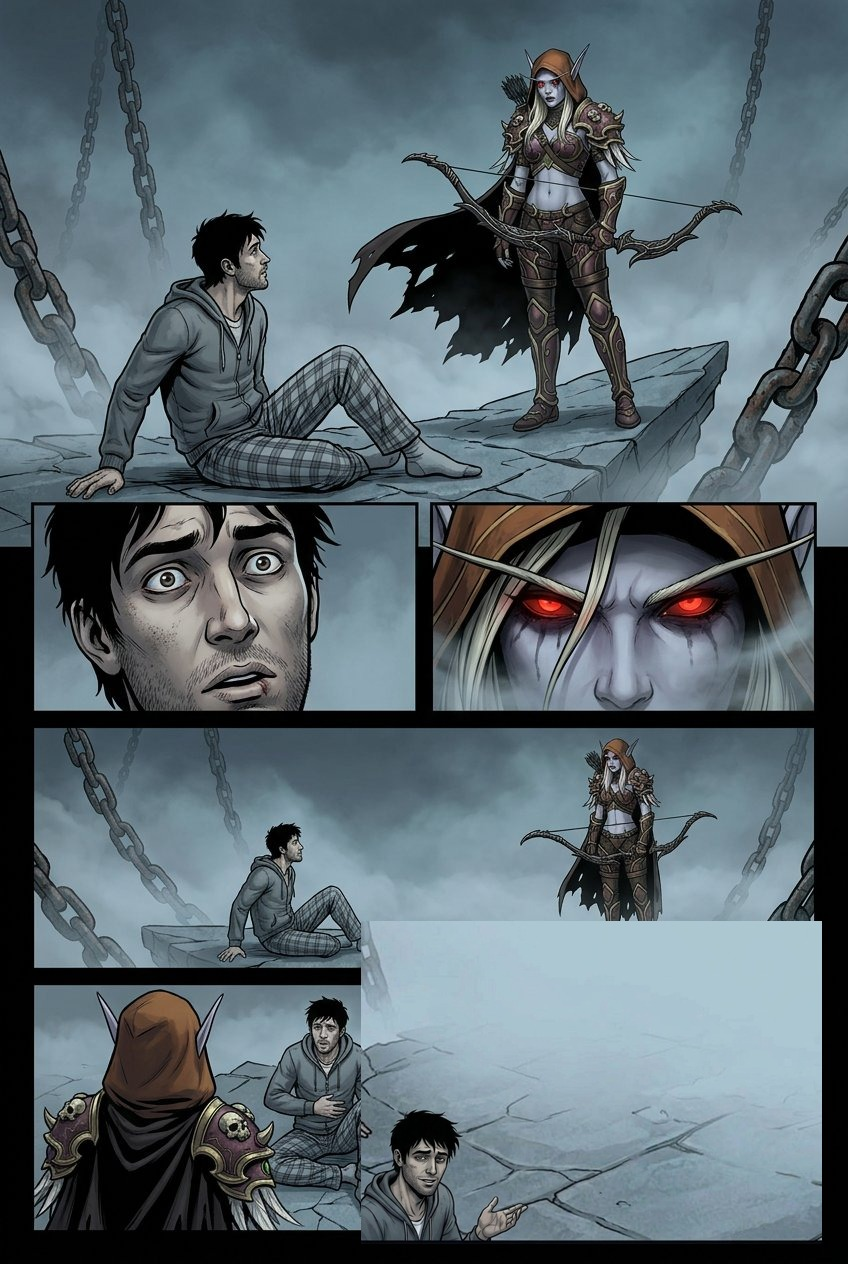
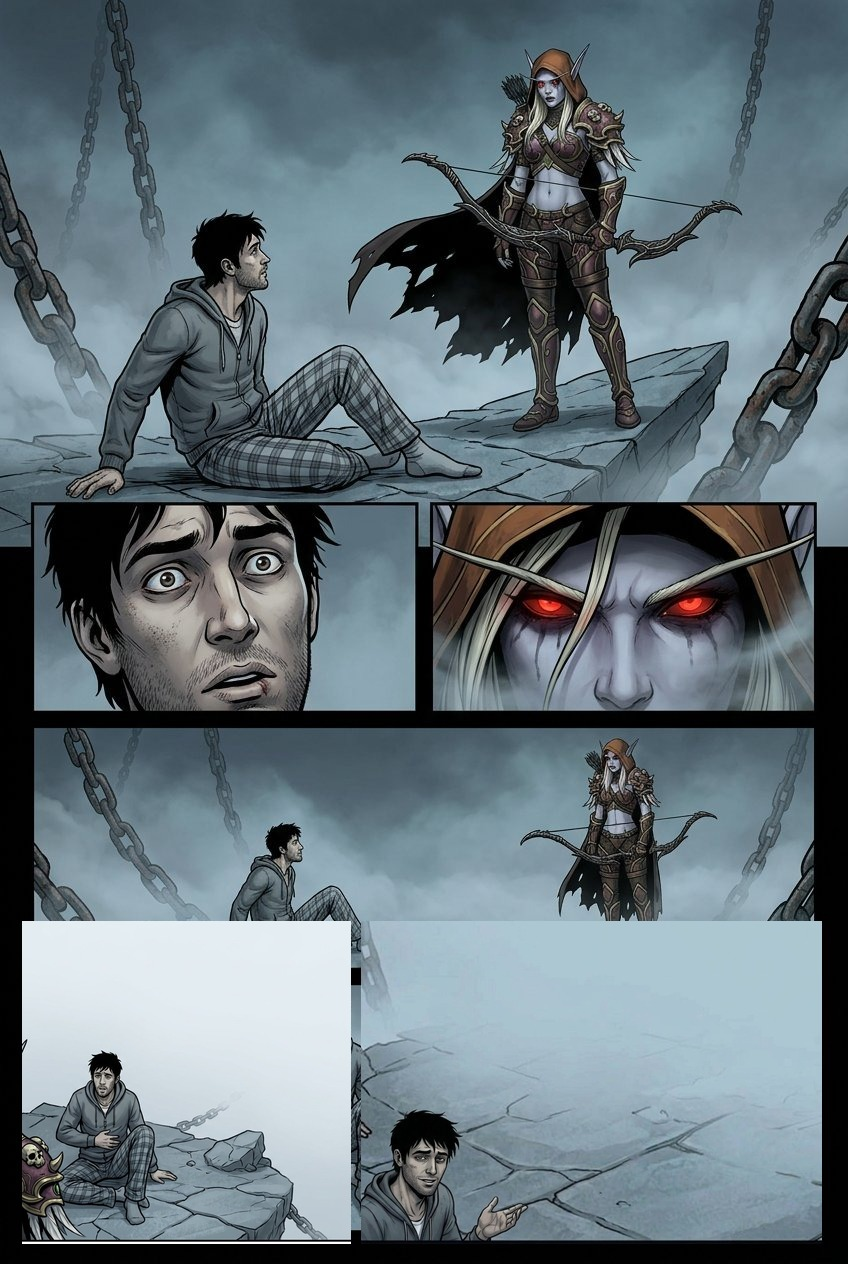
v21 20260911-21: editor de balões + capa da Sylvanas corrigida + diálogo da P4 em ordem
- EDITOR: botão '✎ Editar balões' no leitor — arrastar para mover,
  alças laterais para redimensionar (largura) e de canto (largura+altura);
  caudas redesenhadas em tempo real; ajustes salvos no navegador
  (localStorage) e botão para exportar/copiar o JSON e restaurar a página
- CAPA: P10-q4 e P7-q4 recoloridas para o marrom-rust do capuz (igual à
  página 4 e à ficha); P4-q4 regenerado com céu para os balões
- P4: sequência de diálogo restaurada à ordem do livro (na v18 duas falas
  tinham ido para o quadro de abertura e a narra final para o meio)
- Validador: 94 balões, 0 violações, 0 fora

Changed region(s): [[0.0, 0.7097, 0.4292, 0.9873]]

diff --git a/livro continua/site/hq/leitor.js b/livro continua/site/hq/leitor.js
@@ -6,7 +6,7 @@
    Rabichos são desenhados sobre os balões REAIS medidos no DOM.
    ============================================================ */
 const PW = 1280, PH = 1920;
-const VER = "20260911-20";
+const VER = "20260911-21";
 const NS = "http://www.w3.org/2000/svg";
 const COM_RABICHO = ["fala","grito","rouca","sussurro"];
 
@@ -165,12 +165,137 @@ function mostrar(i){
   $("#ant").style.visibility  = atual === 0 ? "hidden" : "visible";
 }
 
+
+/* ---------------- editor de balões (mover / redimensionar) ---------------- */
+const EDIT = { on:false, alvo:null, modo:null, sx:0, sy:0, x0:0, y0:0, w0:0, h0:0 };
+const LS_KEY = "hq_baloes_v1";
+
+function carregarOverrides(){
+  try{
+    const dados = JSON.parse(localStorage.getItem(LS_KEY)||"{}");
+    document.querySelectorAll(".pagina").forEach(pag=>{
+      const idx = pag.dataset.idx;
+      (dados[idx]||[]).forEach(o=>{
+        const b = [...pag.querySelectorAll(".balao")].find(x=>
+          x.dataset.tipo!=="sfx" && x.querySelector(".tx") &&
+          x.querySelector(".tx").textContent.trim()===o.tx);
+        if(!b) return;
+        b.style.left=o.x+"px"; b.style.top=o.y+"px";
+        b.style.width=o.w+"px";
+        if(o.h) b.style.height=o.h+"px"; else b.style.height="";
+      });
+    });
+  }catch(e){ console.warn("HQ: overrides de balões ignorados", e); }
+}
+function salvarOverrides(){
+  try{
+    const dados = {};
+    document.querySelectorAll(".pagina").forEach(pag=>{
+      const idx = pag.dataset.idx; const lista=[];
+      pag.querySelectorAll(".balao").forEach(b=>{
+        if(b.dataset.tipo==="sfx"||!b.dataset.ed) return;
+        lista.push({ tx:b.querySelector(".tx").textContent.trim(),
+          x:Math.round(parseFloat(b.style.left)||0),
+          y:Math.round(parseFloat(b.style.top)||0),
+          w:Math.round(parseFloat(b.style.width)||0),
+          h:b.style.height?Math.round(parseFloat(b.style.height)):null });
+      });
+      if(lista.length) dados[idx]=lista;
+    });
+    localStorage.setItem(LS_KEY, JSON.stringify(dados));
+  }catch(e){ console.warn("HQ: falha ao salvar overrides", e); }
+}
+function prepararEdicao(b){
+  if(b.dataset.ed) return;
+  b.dataset.ed="1";
+  const rx=document.createElement("div");  rx.className="rng rng-x";  rx.title="Largura";
+  const rxy=document.createElement("div"); rxy.className="rng rng-xy"; rxy.title="Altura e largura";
+  b.appendChild(rx); b.appendChild(rxy);
+}
+function iniciarArrasto(b, modo, ev){
+  EDIT.alvo=b; EDIT.modo=modo;
+  EDIT.sx=ev.clientX; EDIT.sy=ev.clientY;
+  EDIT.x0=parseFloat(b.style.left)||b.offsetLeft;
+  EDIT.y0=parseFloat(b.style.top)||b.offsetTop;
+  EDIT.w0=parseFloat(b.style.width)||b.offsetWidth;
+  EDIT.h0=b.offsetHeight;
+  b.setPointerCapture && b.setPointerCapture(ev.pointerId);
+  ev.preventDefault(); ev.stopPropagation();
+}
+function ativarEditor(){
+  document.querySelectorAll(".pagina .balao").forEach(b=>{
+    if(b.dataset.tipo==="sfx") return;
+    prepararEdicao(b);
+    if(b.dataset.evt) return;
+    b.dataset.evt="1";
+    b.addEventListener("pointerdown", ev=>{
+      if(!EDIT.on) return;
+      const modo = ev.target.classList.contains("rng-xy") ? "xy"
+                 : ev.target.classList.contains("rng-x") ? "x" : "mover";
+      iniciarArrasto(b, modo, ev);
+    });
+    b.addEventListener("pointermove", ev=>{
+      if(!EDIT.on || EDIT.alvo!==b) return;
+      const dx=(ev.clientX-EDIT.sx)/escala, dy=(ev.clientY-EDIT.sy)/escala;
+      if(EDIT.modo==="mover"){
+        b.style.left = Math.max(2, Math.min(PW-EDIT.w0-2, EDIT.x0+dx))+"px";
+        b.style.top  = Math.max(2, Math.min(PH-EDIT.h0-2, EDIT.y0+dy))+"px";
+      }else{
+        const w = Math.max(110, Math.min(PW-10, EDIT.w0+dx));
+        b.style.width = w+"px";
+        if(EDIT.modo==="xy"){
+          const h = Math.max(40, EDIT.h0+dy);
+          b.style.height = h+"px";
+        }
+      }
+      clearTimeout(b._t); b._t=setTimeout(()=>{ medirPagina(b.closest(".pagina")); }, 120);
+    });
+    b.addEventListener("pointerup", ev=>{
+      if(EDIT.alvo===b){ EDIT.alvo=null; medirPagina(b.closest(".pagina")); salvarOverrides(); }
+    });
+    b.addEventListener("pointercancel", ()=>{ if(EDIT.alvo===b){ EDIT.alvo=null; medirPagina(b.closest(".pagina")); } });
+  });
+}
+function construirBarraEdit(){
+  if(document.getElementById("barra-edit")) return;
+  const bar=document.createElement("div"); bar.id="barra-edit";
+  bar.innerHTML = `<button id="ed-toggle" type="button">✎ Editar balões</button>
+    <button id="ed-export" type="button" style="display:none">⤓ Exportar JSON</button>
+    <button id="ed-reset" type="button" style="display:none">↺ Restaurar página</button>`;
+  document.body.appendChild(bar);
+  $("#ed-toggle").addEventListener("click", ()=>{
+    EDIT.on=!EDIT.on;
+    document.body.classList.toggle("editando", EDIT.on);
+    $("#ed-toggle").textContent = EDIT.on ? "✓ Concluir" : "✎ Editar balões";
+    $("#ed-export").style.display = EDIT.on?"":"none";
+    $("#ed-reset").style.display  = EDIT.on?"":"none";
+    if(EDIT.on) ativarEditor();
+    else medirTodos();
+  });
+  $("#ed-export").addEventListener("click", ()=>{
+    const dados = localStorage.getItem(LS_KEY)||"{}";
+    console.log("=== BALÕES EDITADOS (cole de volta com localStorage.setItem('hq_baloes_v1', ...)) ===");
+    console.log(dados);
+    try{ navigator.clipboard.writeText(dados); $("#ed-export").textContent="✓ Copiado!"; 
+      setTimeout(()=>$("#ed-export").textContent="⤓ Exportar JSON",1500); }catch(e){}
+  });
+  $("#ed-reset").addEventListener("click", ()=>{
+    try{
+      const dados = JSON.parse(localStorage.getItem(LS_KEY)||"{}");
+      delete dados[String(atual)];
+      localStorage.setItem(LS_KEY, JSON.stringify(dados));
+    }catch(e){}
+    location.reload();
+  });
+}
+
 /* ---------------- bootstrap: fontes → layout → páginas ---------------- */
 function boot(){
   if(bootFeito) return;
   const itensPorPagina = LayoutHQ.computarLayout(PAGINAS, LayoutHQ.criarMedidorCanvas());
   for(let i=0;i<PAGINAS.length;i++) construirPagina(i, itensPorPagina[i]);
   bootFeito = true;                     // só marca sucesso após construir
+  construirBarraEdit(); carregarOverrides();
   escalar();
   requestAnimationFrame(medirTodos);
   if(document.fonts && document.fonts.ready)

diff --git a/livro continua/site/hq/data.js b/livro continua/site/hq/data.js
@@ -72,8 +72,8 @@ const PAGINAS = [
    {r:[30,660,500,270], rostos:[[40,665,450,260]], zonas:[[30,660,500,270]]},                                                // 1 close Nathan
    {r:[545,660,700,270], rostos:[[550,665,690,260]], zonas:[[545,660,700,270]]},                                              // 2 olhos dela
    {r:[30,950,1215,440], rostos:[[352,1032,56,64],[686,1150,50,58]], zonas:[[320,1098,150,270],[628,1148,198,290]]}, // 3 dois no quadro
-   {r:[30,1400,500,490], rostos:[[342,1440,54,60]], zonas:[[18,1400,288,490],[300,1502,145,318]]},                   // 4 OTS ombro dela
-   {r:[545,1400,700,490], rostos:[[615,1650,120,140]], zonas:[[585,1650,240,240],[985,1400,260,490]]}                 // 5 close aceno
+   {r:[30,1400,500,490], rostos:[[122,1595,58,55]], zonas:[[85,1640,185,205],[240,1690,190,70],[30,1755,470,135],[30,1700,80,185]]},                   // 4 OTS ombro dela
+   {r:[545,1400,700,490], rostos:[[615,1650,120,140]], zonas:[[585,1650,240,240]]}                 // 5 close aceno
   ],
   elementos:[
    {t:"fala", p:0, de:"sylvanas", ancora:[655, 95], texto:"Você sabe meu nome."},
@@ -81,12 +81,12 @@ const PAGINAS = [
    {t:"narra", p:3, texto:"A garganta fechou. Não de medo — ou não só. Aquilo era um curto-circuito entre o que é real e o que é história."},
    {t:"fala", p:3, de:"nathan", ancora:[378, 1085], texto:"Sei."},
    {t:"fala", p:3, de:"sylvanas", ancora:[708, 1170], texto:"Diga como."},
-   {t:"fala", p:3, de:"nathan", ancora:[210, 1000], texto:"Você não vai acreditar."},
-   {t:"fala", p:0, de:"sylvanas", ancora:[655, 95], texto:"Isso é irrelevante. Diga mesmo assim."},
-   {t:"fala", p:0, de:"nathan", ancora:[100, 120], tamanho:20, texto:"Eu dormi na minha casa. No meu mundo. Acordei aqui. Sem transição, sem portal, sem nada."},
-   {t:"fala", p:5, de:"nathan", ancora:[675, 1720], texto:"Acordei de pijama numa pedra... e a primeira coisa que apareceu tentou me abrir ao meio."},
-   {t:"fala", p:5, de:"nathan", ancora:[675, 1720], texto:"Obrigado, aliás. Por isso."},
-   {t:"narra", p:3, texto:"Ela não reagiu ao agradecimento. Nem para aceitar, nem para desprezar."}
+   {t:"fala", p:3, de:"nathan", ancora:[378, 1085], texto:"Você não vai acreditar."},
+   {t:"fala", p:3, de:"sylvanas", ancora:[708, 1170], texto:"Isso é irrelevante. Diga mesmo assim."},
+   {t:"fala", p:4, de:"nathan", ancora:[150, 1615], tamanho:20, texto:"Eu dormi na minha casa. No meu mundo. Acordei aqui. Sem transição, sem portal, sem nada."},
+   {t:"fala", p:5, de:"nathan", ancora:[675, 1655], xpref:"esq", texto:"Acordei de pijama numa pedra... e a primeira coisa que apareceu tentou me abrir ao meio."},
+   {t:"fala", p:5, de:"nathan", ancora:[675, 1655], xpref:"esq", texto:"Obrigado, aliás. Por isso."},
+   {t:"narra", p:5, texto:"Ela não reagiu ao agradecimento. Nem para aceitar, nem para desprezar."}
   ]},
 /* ==================== PÁGINA 5 — O jogo (arte real) ==================== */
 { img:"img/page05.jpg",
@@ -146,7 +146,7 @@ const PAGINAS = [
    {r:[30,620,380,500], rostos:[[172,788,88,84]], zonas:[[85,745,285,155],[30,862,380,58]]},
    {r:[430,620,390,500], rostos:[[578,986,108,102]], zonas:[[515,1040,315,80]]},
    {r:[840,620,405,500], rostos:[[845,843,72,85]], zonas:[[840,925,180,190]]},
-   {r:[30,1140,590,750], rostos:[[75,1228,105,120],[318,1545,58,70]], zonas:[[60,1330,180,400],[80,1540,440,340]]},
+   {r:[30,1140,590,750], rostos:[[214,1514,132,108]], zonas:[[115,1590,385,300]]},
    {r:[650,1140,595,750], rostos:[[688,1682,105,115],[1075,1672,90,105]], zonas:[[665,1780,220,105],[1030,1770,215,115]]}
  ],
  elementos:[
@@ -214,7 +214,7 @@ const PAGINAS = [
    {r:[30,580,590,370], rostos:[[30,580,590,370]]},
    {r:[650,580,600,370], rostos:[[790,628,112,108]], zonas:[[690,760,300,110]]},
    {r:[30,970,590,330], rostos:[[30,970,590,330]]},
-   {r:[650,970,600,330], rostos:[[798,1000,64,58]], zonas:[[690,1040,270,240]]},
+   {r:[650,970,600,330], rostos:[[1022,1000,56,60]], zonas:[[655,1145,220,185],[845,1105,355,195],[975,975,130,130]]},
    {r:[30,1320,1215,570], rostos:[[300,1518,68,52],[618,1382,58,58]], zonas:[[240,1565,430,295],[555,1430,265,340],[61,1490,175,400]]}
  ],
  elementos:[
@@ -223,8 +223,8 @@ const PAGINAS = [
    {t:"narra", p:0, texto:"O olhar que ela deu não tinha raiva nem surpresa — só uma atenção súbita e muito precisa. Como quem reajusta a mira ao descobrir que o vento mudou."},
    {t:"fala", p:0, de:"nathan", ancora:[842, 150], tamanho:20, texto:"Prometer que eu vou correr e não voltar é uma promessa sobre a pessoa que eu sou."},
    {t:"fala", p:0, de:"nathan", ancora:[842, 150], tamanho:20, texto:"E eu prefiro não mentir sobre isso... no meu primeiro dia."},
-   {t:"fala", p:4, de:"sylvanas", ancora:[830, 1029], texto:"Hm."},
-   {t:"narra", p:4, texto:"Muito baixo. Quase inaudível. Ela voltou a andar. Ele a seguiu — três passos atrás, à esquerda."},
+   {t:"fala", p:5, de:"sylvanas", ancora:[120, 1700], texto:"Hm."},
+   {t:"narra", p:4, tamanho:16, texto:"Muito baixo. Quase inaudível. Ela voltou a andar. Ele a seguiu — três passos atrás, à esquerda."},
    {t:"narra", p:5, texto:"Estranhamente, isso não o assustou."},
    {t:"narra", p:5, texto:"Isso o deixou curioso."},
    {t:"narra", p:5, texto:"Durante quatro anos, ele carregara o rosto dela no braço. E naquela noite, a primeira de muitas, percebeu que não sabia absolutamente nada sobre a mulher que tinha salvo sua vida."},

diff --git a/livro continua/site/hq/hq.css b/livro continua/site/hq/hq.css
@@ -250,3 +250,16 @@ svg.rabichos{position:absolute;inset:0;width:100%;height:100%;overflow:visible;z
   .navega{width:46px;height:84px;font-size:30px}
   #ant{left:6px}#prox{right:6px}
 }
+
+/* ---------- editor de balões (mover / redimensionar) ---------- */
+#barra-edit{position:fixed;top:10px;right:12px;z-index:80;display:flex;gap:8px}
+#barra-edit button{font-family:"Oswald","Saira Condensed",system-ui,sans-serif;font-size:14px;
+  background:rgba(16,13,22,.92);color:#ffdf4f;border:1px solid rgba(255,223,79,.55);
+  border-radius:8px;padding:8px 12px;cursor:pointer;letter-spacing:.02em}
+#barra-edit button:hover{background:#241a2e}
+body.editando .balao{pointer-events:auto;cursor:move;outline:2px dashed rgba(255,223,79,.85);outline-offset:3px}
+body.editando .balao .tx{height:100%}
+.rng{display:none;position:absolute;background:#ffdf4f;border:2px solid #17141c;z-index:6;box-shadow:0 2px 6px rgba(0,0,0,.5)}
+.rng-x{right:-8px;top:50%;width:15px;height:28px;margin-top:-14px;border-radius:6px;cursor:ew-resize}
+.rng-xy{right:-8px;bottom:-8px;width:16px;height:16px;border-radius:4px;cursor:nwse-resize}
+body.editando .balao .rng{display:block}

diff --git a/livro continua/site/hq/index.html b/livro continua/site/hq/index.html
@@ -12,7 +12,7 @@
 <link rel="preconnect" href="https://fonts.googleapis.com">
 <link rel="preconnect" href="https://fonts.gstatic.com" crossorigin>
 <link href="https://fonts.googleapis.com/css2?family=Bangers&family=Oswald:wght@400;500;600;700&family=Spectral:ital,wght@1,400;1,500;1,600" rel="stylesheet">
-<link rel="stylesheet" href="hq.css?v=20260911-20">
+<link rel="stylesheet" href="hq.css?v=20260911-21">
 </head>
 <body>
 
@@ -52,9 +52,9 @@
 <div class="dots" id="dots"></div>
 <div class="indicador" id="ind"></div>
 
-<script src="layout.js?v=20260911-20"></script>
-<script src="data.js?v=20260911-20"></script>
-<script src="leitor.js?v=20260911-20"></script>
+<script src="layout.js?v=20260911-21"></script>
+<script src="data.js?v=20260911-21"></script>
+<script src="leitor.js?v=20260911-21"></script>
 <script>
 document.getElementById("capaBt").addEventListener("click",()=>{
   document.getElementById("capa").classList.remove("oculta");

diff --git a/livro continua/site/hq/ler.html b/livro continua/site/hq/ler.html
@@ -12,7 +12,7 @@
 <link rel="preconnect" href="https://fonts.googleapis.com">
 <link rel="preconnect" href="https://fonts.gstatic.com" crossorigin>
 <link href="https://fonts.googleapis.com/css2?family=Bangers&family=Oswald:wght@400;500;600;700&family=Spectral:ital,wght@1,400;1,500;1,600" rel="stylesheet">
-<link rel="stylesheet" href="hq.css?v=20260911-20">
+<link rel="stylesheet" href="hq.css?v=20260911-21">
 </head>
 <body>
 
@@ -52,9 +52,9 @@
 <div class="dots" id="dots"></div>
 <div class="indicador" id="ind"></div>
 
-<script src="layout.js?v=20260911-20"></script>
-<script src="data.js?v=20260911-20"></script>
-<script src="leitor.js?v=20260911-20"></script>
+<script src="layout.js?v=20260911-21"></script>
+<script src="data.js?v=20260911-21"></script>
+<script src="leitor.js?v=20260911-21"></script>
 <script>
 document.getElementById("capaBt").addEventListener("click",()=>{
   document.getElementById("capa").classList.remove("oculta");
